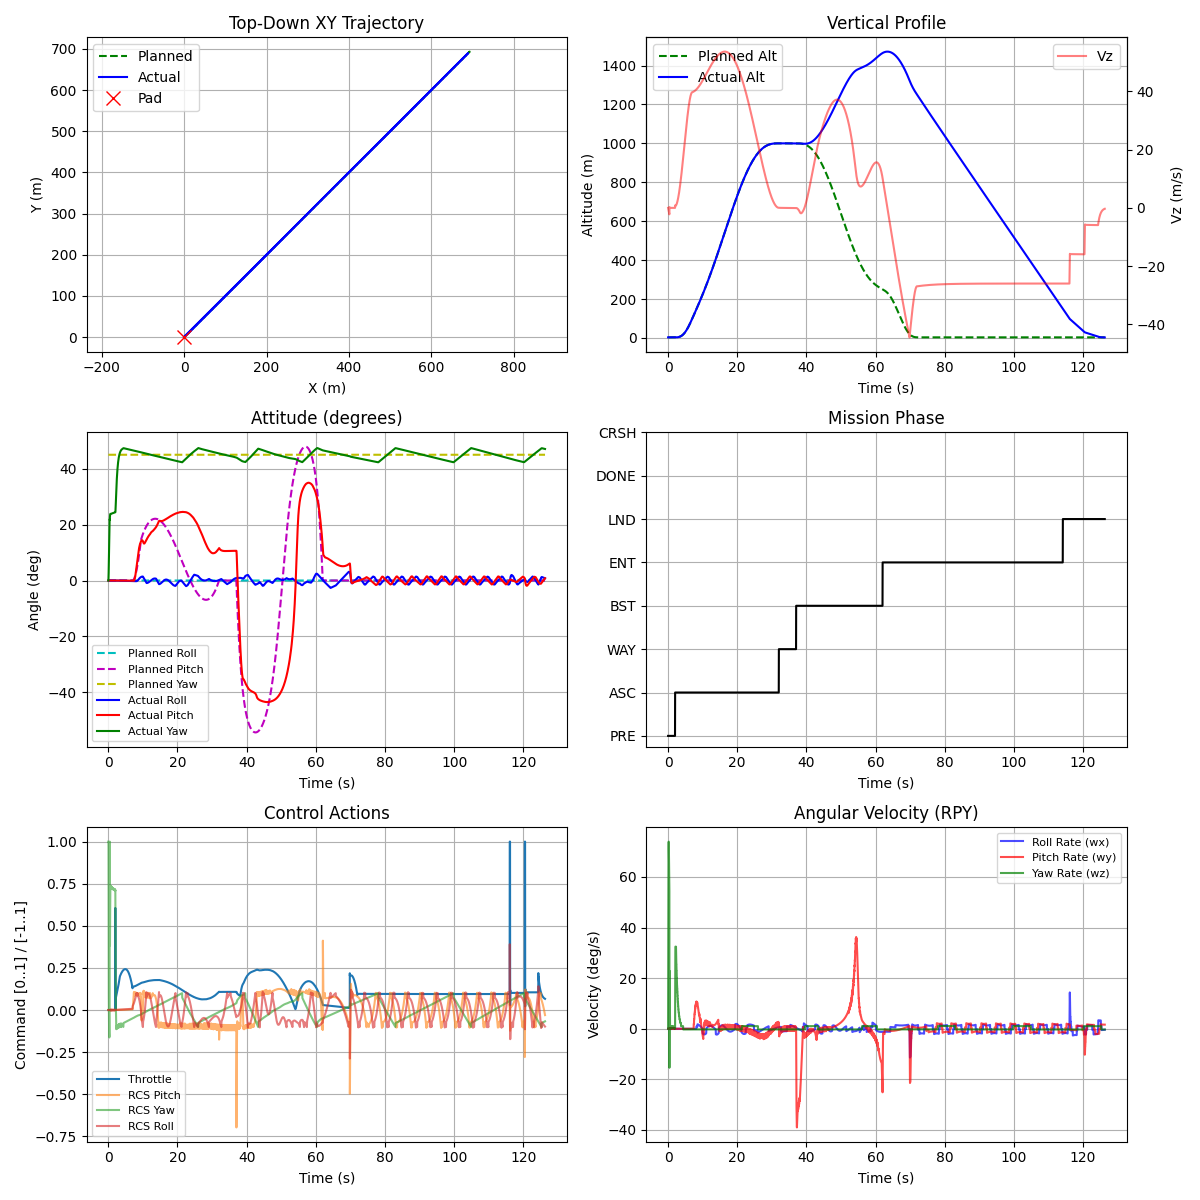
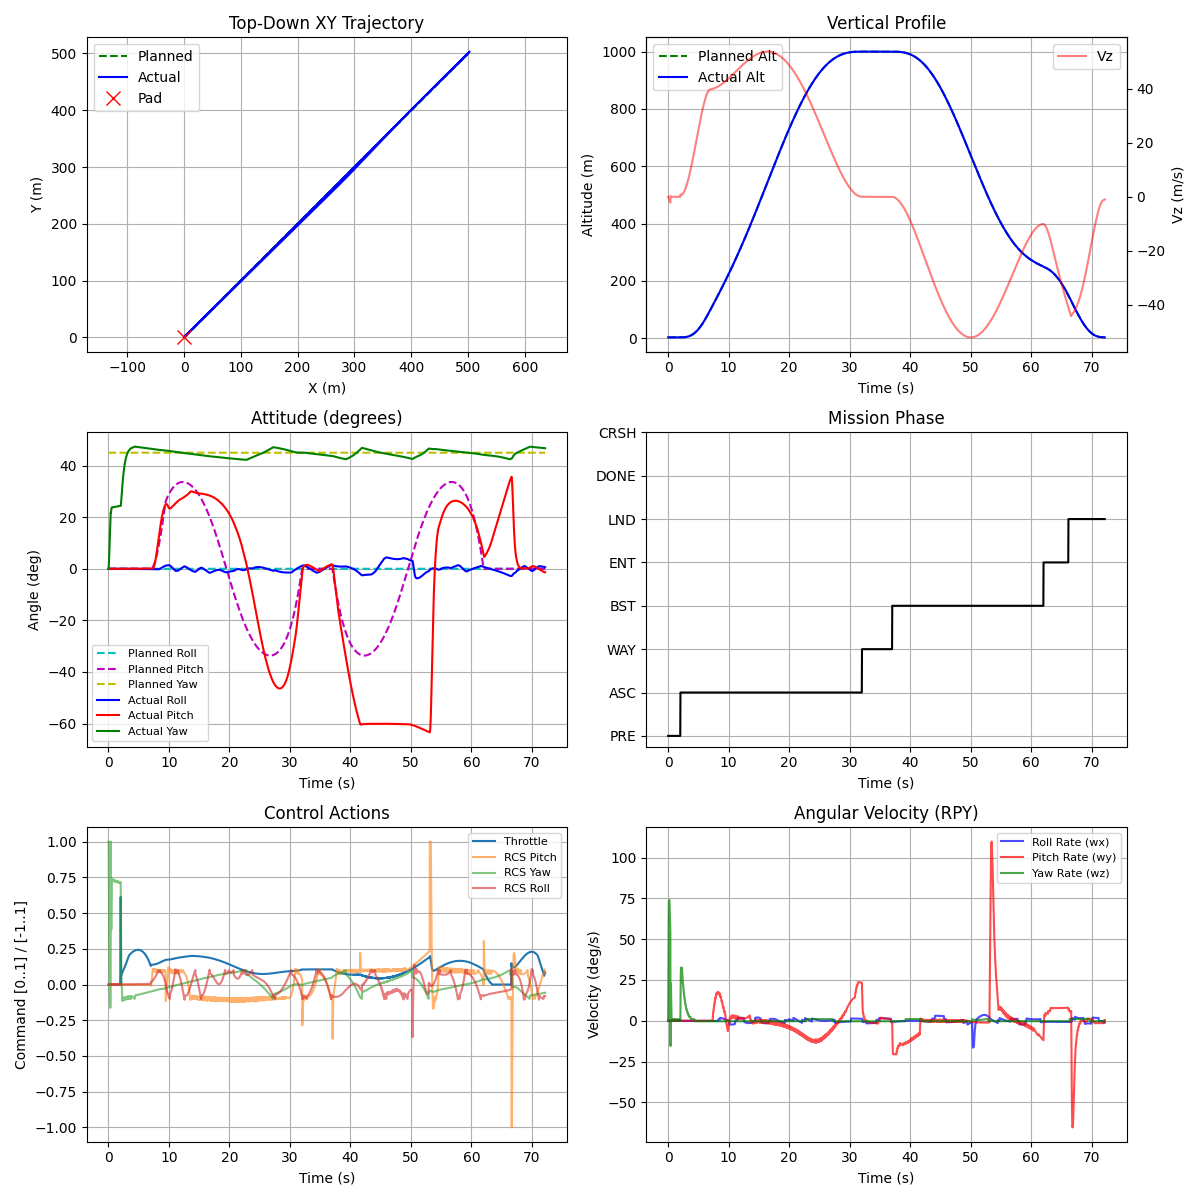
Fix altitude overshoot, landing precision, and waypoint overshoot

diff --git a/rocketlander/trajectory/planner.py b/rocketlander/trajectory/planner.py
@@ -29,20 +29,18 @@ class TrajectoryPlanner:
         seg1 = Trajectory3D(pos0, vel0, acc0, pos1, vel1, acc1, t1)
         self.segments.append(TrajectorySegment(seg1, t1, "Launch"))
         
-        # Segment 2: Gravity Turn / Ascent Arc
-        # Target [500, 500, 1000] but DO NOT stop! Keep flying forward at 25 m/s.
+        # Segment 2: Gravity Turn / Ascent Arc - Stop at waypoint!
         pos2 = np.array(self.config.waypoint)
-        vel2 = np.array([25.0, 25.0, 0.0])
+        vel2 = np.zeros(3)
         acc2 = np.zeros(3)
         t2 = 25.0
         
         seg2 = Trajectory3D(pos1, vel1, acc1, pos2, vel2, acc2, t2)
         self.segments.append(TrajectorySegment(seg2, t2, "GravityTurn"))
         
-        # Segment 3: Waypoint Coast (No braking)
-        # Let it keep drifting forward for 5 seconds naturally
-        pos3 = np.array([pos2[0] + vel2[0]*5.0, pos2[1] + vel2[1]*5.0, pos2[2]])
-        vel3 = np.array([25.0, 25.0, 0.0])
+        # Segment 3: Waypoint Coast (Hover at waypoint)
+        pos3 = pos2
+        vel3 = np.zeros(3)
         acc3 = np.zeros(3)
         t3 = 5.0
         

diff --git a/rocketlander/run_rocketlander3d.py b/rocketlander/run_rocketlander3d.py
@@ -130,23 +130,19 @@ def main():
                     ah_mag *= blend
                 else:
                     des_p, des_r, ah_mag = hor_ctrl.compute(cmd.pos_error, cmd.vel_error, cmd.desired_acc, state.orn_euler[2])
-                throttle = max(throttle, ah_mag * 0.015)
 
             elif phase == MissionPhase.WAYPOINT_NAV:
                 throttle = alt_ctrl.compute(cmd.pos_error[2], cmd.vel_error[2], cmd.desired_acc[2], current_alt=state.pos[2])
                 des_p, des_r, ah_mag = hor_ctrl.compute(cmd.pos_error, cmd.vel_error, cmd.desired_acc, state.orn_euler[2])
-                throttle = max(throttle, ah_mag * 0.015)
 
             elif phase == MissionPhase.BOOSTBACK:
                 throttle = alt_ctrl.compute(cmd.pos_error[2], cmd.vel_error[2], cmd.desired_acc[2], current_alt=state.pos[2])
                 des_p, des_r, ah_mag = hor_ctrl.compute(cmd.pos_error, cmd.vel_error, cmd.desired_acc, state.orn_euler[2])
-                # Boostback relies heavily on horizontal thrust. Prevent altitude controller from starving horizontal!
-                throttle = max(throttle, ah_mag * 0.015)
 
             elif phase in [MissionPhase.ENTRY_BURN, MissionPhase.LANDING_BURN]:
                 throttle = alt_ctrl.compute(cmd.pos_error[2], cmd.vel_error[2], cmd.desired_acc[2], current_alt=state.pos[2])
                 des_p, des_r, ah_mag = hor_ctrl.compute(cmd.pos_error, cmd.vel_error, cmd.desired_acc, state.orn_euler[2])
-                throttle = max(throttle, ah_mag * 0.015)
+
                     
             # Use raw desired attitude for control. 
             # (Adding a low-pass filter here previously caused a 0.3s phase delay, destroying outer loop stability and causing the slow pendulum wobble!)
@@ -165,11 +161,6 @@ def main():
             # Disable gimbal, rely on RCS globally (USER request)
             gimbal_p = 0.0
             gimbal_r = 0.0
-
-            # Scale throttle by 1/cos(tilt) to compensate for thrust vertical projection loss during tilts
-            cos_tilt = math.cos(state.orn_euler[0]) * math.cos(state.orn_euler[1])
-            cos_tilt = max(0.1, abs(cos_tilt))
-            throttle = min(1.0, throttle / cos_tilt)
 
             # 5. Mixer
             action = mixer.mix(throttle, gimbal_p, gimbal_r, u_roll, u_pitch, u_yaw, legs_deploy)

diff --git a/rocketlander/controllers/horizontal_controller.py b/rocketlander/controllers/horizontal_controller.py
@@ -33,11 +33,14 @@ class HorizontalController:
         desired_pitch = math.atan2(bx, 9.81)
         desired_roll = math.atan2(-by, 9.81)
         
-        # Required horizontal acceleration magnitude
-        ah_mag = math.sqrt(bx**2 + by**2)
-        
         # Clamp tilt to prevent tumbling (limit to ~57 degrees to stay safe from 80 deg crash limit)
         desired_pitch = max(-1.00, min(1.00, desired_pitch))
         desired_roll = max(-1.00, min(1.00, desired_roll))
+        
+        # Required horizontal acceleration magnitude corresponding to the clamped desired tilt
+        # Since a = g * tan(theta), we calculate the actual commanded horizontal acceleration
+        ax_clamped = 9.81 * math.tan(desired_pitch)
+        ay_clamped = 9.81 * math.tan(desired_roll)
+        ah_mag = math.sqrt(ax_clamped**2 + ay_clamped**2)
         
         return desired_pitch, desired_roll, ah_mag